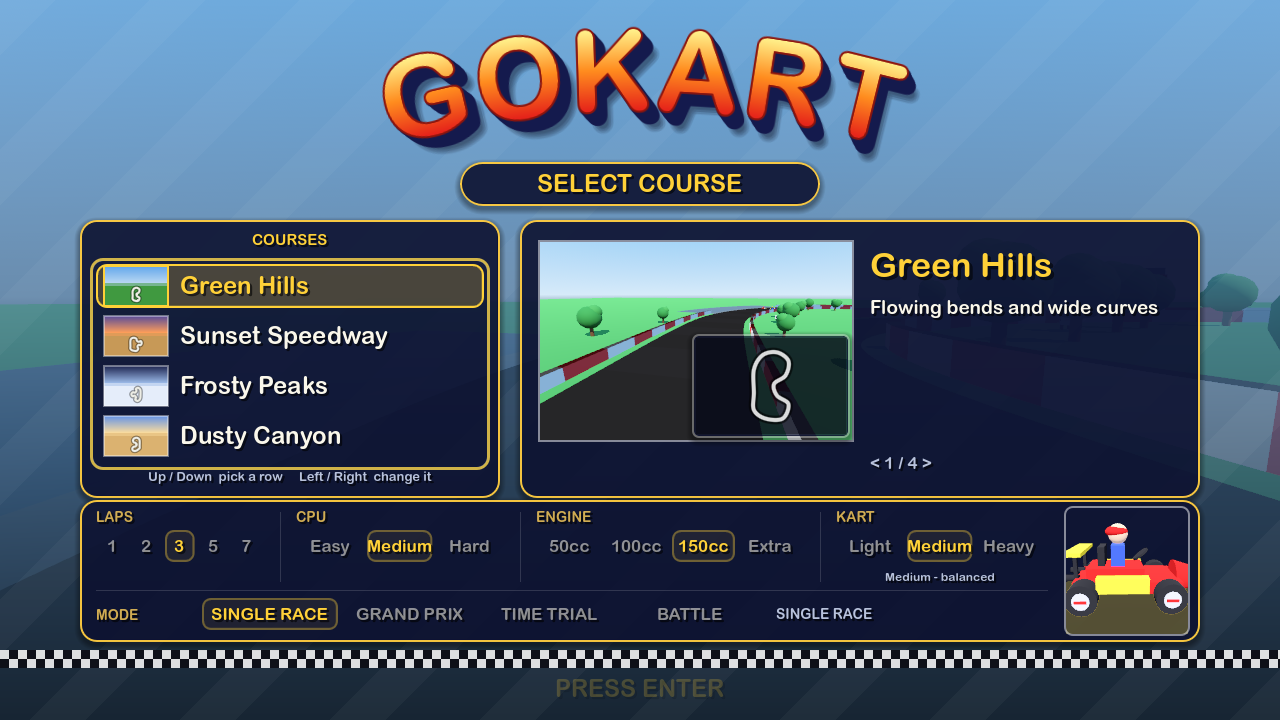
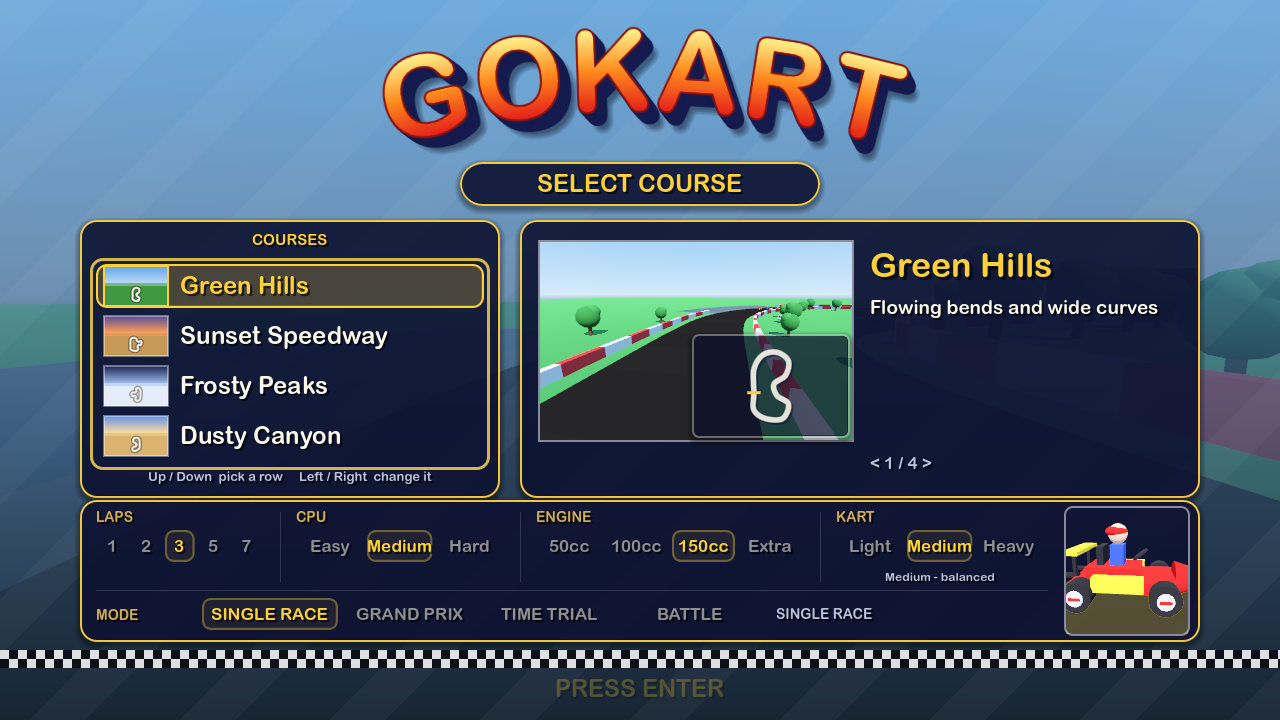
Screens gallery refresh: the committed select-screen shot (title-menu.png) predated the Mario Kart 64 style course map and still showed the old black box / black rim over the course picture's corner (144 pure-black px in the map region) — regenerated from a clean worktree at HEAD with tools/menu_sho

Changed region(s): [[0.4062, 0.4278, 0.6562, 0.6111], [0.9375, 0.3667, 1.0, 0.6722], [0.8125, 0.7333, 0.9375, 0.8556]]

diff --git a/.agent/autopilot/progress.md b/.agent/autopilot/progress.md
@@ -1769,3 +1769,7 @@ Mario Kart 64 style **pause screen** (new scripts/pause_menu.gd, tests/test_paus
 - Tests: `tests/test_pause_menu.gd` (3 tests / 59 checks: helpers, pop curve, effects; the look — veil navy not black, PAUSE sign rim, lines cream / gold, no outlines, panel + bar styles; open / pop / move / wrap / resume / CONTINUE outside the tree via `_set_paused` guard). Full suite **14134 passed, 0 failed**.
 - `tools/pause_shot.gd` (windowed): panel region gold 4854 / cream 2189 / **black 0**, left of the panel 0 black, 0 of ~57k sampled pixels changed outside the panel over a second (frozen race), the first pop frame at scale 0.83 → PAUSE SHOT: OK. Shots /tmp/gokart_pause.png, /tmp/gokart_pause_pop.png.
 Assumptions / conscious decisions: Esc is MK64's Start (the universal PC pause key); the music pauses with the race (the whole tree freezes); RETRY is offered in a Grand Prix too (MK64 only allows it in Time Trials — a kindness, the race is not scored until the results board); no DRIVER CHANGE line (GoKart has one driver; the kart class lives on the select screen); the panel is my layout (MK64's pause texts sit straight over the frozen frame — a navy panel keeps them legible over snow / sand, the project's convention). No parity folders were given.
+
+## Cycle 22 (menus) — 2026-10-04
+Screens gallery refresh (assets/screenshots, README). The committed `title-menu.png` (Oct 3 22:38) predated the course-map change (cb452c9) and still showed the old black box / black rim in the picture's corner — 144 pure-black px in the map region, measured with PIL. Regenerated from a clean worktree at HEAD (`git worktree add -f /tmp/gk_shot HEAD`, so the other session's in-flight penguins edits in main.gd / track_data.gd / track_library.gd were not in the build): `tools/menu_shot.gd` -> menu0 = new `title-menu.png` (map region black 0 / cream 861 / gold 30 — the start tick); `title.png` sampled identical to the committed one (black 0, cream 11520, gold 7625) so it was left alone. Two new screens had no picture in the README yet: `tools/intro_shot.gd` INTRO SHOT: OK -> `course-intro.png` (the fly-over with the name card) and `tools/pause_shot.gd` PAUSE SHOT: OK -> `pause.png` (the frozen race under the panel); both 1280x720, added under the select-screen shot with the two tools named in the "Taken with" line. No script errors in any of the three windowed runs. Grep audit: scripts/ has no `outline_size` outside ui_style.gd and the only black colours are the two shadow constants (SHADOW 0.55, panel shadow 0.35).
+Assumptions: the select-screen shot shows the default course (Green Hills) as before; a screenshot refresh is a binary-only change, so no tests were touched. No parity folders were given.

diff --git a/README.md b/README.md
@@ -12,6 +12,10 @@ A Mario Kart–style arcade kart racer built with **Godot 4** and GDScript. Ever
 
 ![The select screen: the course list with a picture beside each course, a live picture of the course flown along the road with the map outline in its corner, the option rows — every choice listed, the picked one lit — and the player's kart turning in its portrait window, over the dimmed demo](assets/screenshots/title-menu.png)
 
+![The course intro: the camera flies along the road before the countdown while the course name card sits in the corner as a gold sign](assets/screenshots/course-intro.png)
+
+![The pause screen: Esc freezes the race under a navy / gold panel — CONTINUE, RETRY, COURSE CHANGE, QUIT](assets/screenshots/pause.png)
+
 ![Chasing the pack on Green Hills, 4th of 4 on lap 1](assets/screenshots/green-hills-chase.png)
 
 ![Waiting at the level crossing on Dusty Canyon as the train rolls through](assets/screenshots/dusty-canyon-train.png)
@@ -34,7 +38,7 @@ A Mario Kart–style arcade kart racer built with **Godot 4** and GDScript. Ever
 
 ![Lakitu holding up the REVERSE sign: white text printed on the red board, no black outline](assets/screenshots/lakitu-sign.png)
 
-Taken with `godot --path . -s tools/random_drive.gd` (a bot that wanders the road, drifts and fires items at random), `tools/train_shot.gd`, `tools/traffic_shot.gd`, `tools/mole_shot.gd`, `tools/snowman_shot.gd`, `tools/menu_shot.gd`, `tools/hud_shot.gd`, `tools/item_shot.gd` and `tools/sign_shot.gd`.
+Taken with `godot --path . -s tools/random_drive.gd` (a bot that wanders the road, drifts and fires items at random), `tools/train_shot.gd`, `tools/traffic_shot.gd`, `tools/mole_shot.gd`, `tools/snowman_shot.gd`, `tools/menu_shot.gd`, `tools/intro_shot.gd`, `tools/pause_shot.gd`, `tools/hud_shot.gd`, `tools/item_shot.gd` and `tools/sign_shot.gd`.
 
 ## Features
 
